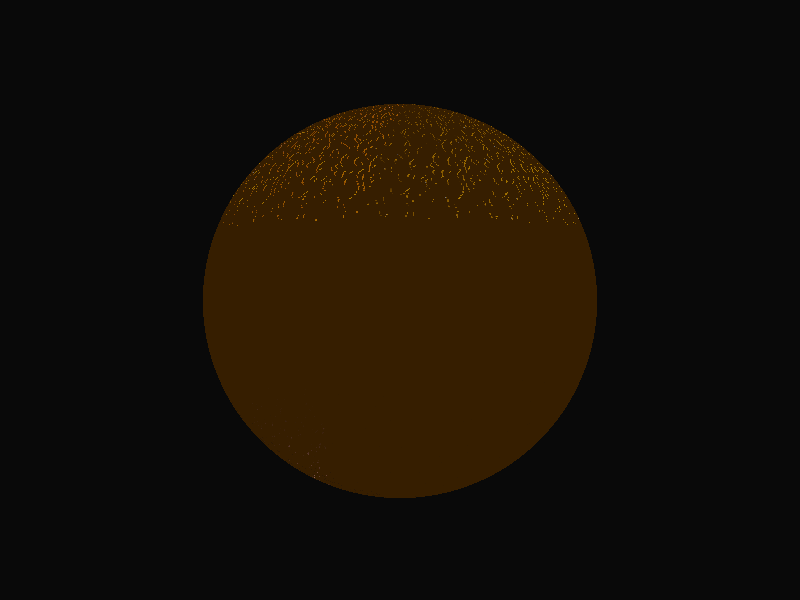
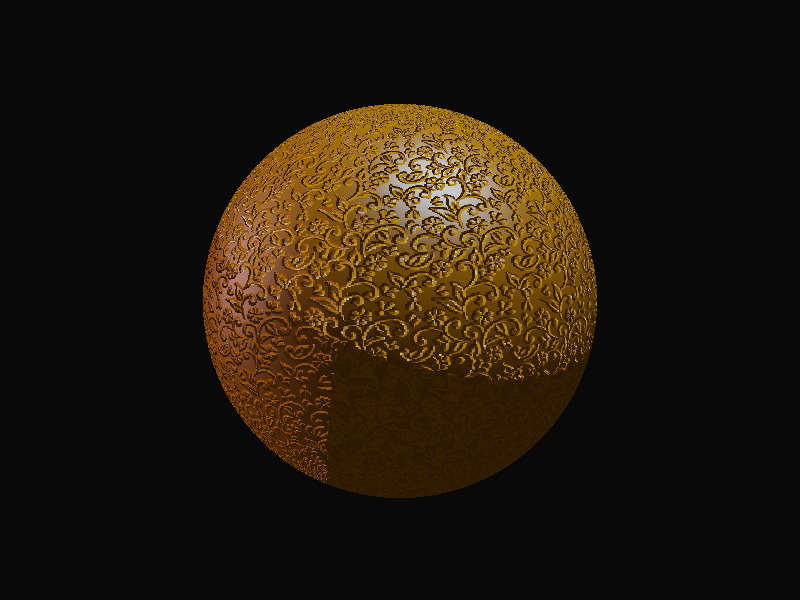
commit

Changed region(s): [[0.25, 0.15, 0.75, 0.81]]

diff --git a/src/uk/ac/cam/cl/gfxintro/ql316/tick1star/BumpySphere.java b/src/uk/ac/cam/cl/gfxintro/ql316/tick1star/BumpySphere.java
@@ -35,32 +35,28 @@ public class BumpySphere extends Sphere {
 	@Override
 	public Vector3 getNormalAt(Vector3 position) {
 
-		Vector3 OP = position.subtract(this.position);
-		double r = OP.magnitude();
+		Vector3 smoothNormal = position.subtract(this.position).normalised();
 
-		double theta = Math.acos(OP.y/OP.magnitude());
-		double phi = Math.atan(OP.z/ OP.x);
-		if(OP.z>0&&OP.x<0){ // second quadrant
+		double theta = Math.acos(smoothNormal.y);
+		double phi = Math.atan(smoothNormal.z/ smoothNormal.x);
+		if(smoothNormal.z>0&& smoothNormal.x<0){ // second quadrant
 			phi = Math.PI + phi;
 		}
-		if(OP.z<0&&OP.x<0){ // third quadrant
+		else if(smoothNormal.z<0&& smoothNormal.x<0){ // third quadrant
 			phi = Math.PI + phi;
 		}
-		if(OP.z<0&&OP.x>0){ // fourth quadrant
+		else if(smoothNormal.z<0&& smoothNormal.x>0){ // fourth quadrant
 			phi = 2*Math.PI + phi;
 		}
 
-		double u = phi*(bumpMapWidth-1)/(2*Math.PI);
-		double v = theta*(bumpMapHeight-1)/Math.PI;
+		int u = (int) Math.round(phi*(bumpMapWidth-1)/(2*Math.PI)) % bumpMapWidth;
+		int v = (int) Math.round(theta*(bumpMapHeight-1)/Math.PI) % bumpMapHeight;
 
-		Vector3 smoothNormal = OP.normalised();
-		Vector3 Pu = new Vector3(-r*Math.sin(theta)*Math.sin(phi), -r*Math.sin(theta), r*Math.sin(theta)*Math.cos(phi) ).normalised();
-		Vector3 Pv = smoothNormal.cross(Pu).normalised();
+		Vector3 Pu = new Vector3(-Math.cos(theta)*Math.sin(phi), -Math.sin(theta), Math.cos(theta)*Math.cos(phi) ).normalised();
+		Vector3 Pv = smoothNormal.cross(Pu);
 
-		if(u+1>bumpMapWidth-1){u=0;}
-		if(v+1>bumpMapHeight-1){v=0;}
-		double bu = heightMap[(int)Math.round(v)][(int)Math.round(u+1)]- heightMap[(int)Math.round(v)][(int)Math.round(u)];
-		double bv = heightMap[(int)Math.round(v+1)][(int)Math.round(u)]- heightMap[(int)Math.round(v)][(int)Math.round(u)];
+		double bu = heightMap[(v)][(u+1)]- heightMap[(v)][(u)];
+		double bv = heightMap[(v+1)][(u)]- heightMap[(v)][(u)];
 		Vector3 modifiedNormal = smoothNormal.add(Pu.scale(bu)).add(Pv.scale(bv)).normalised();
 		//TODO: return the normal modified by the bump map
 		return modifiedNormal;

diff --git a/src/uk/ac/cam/cl/gfxintro/ql316/tick1star/Sphere.java b/src/uk/ac/cam/cl/gfxintro/ql316/tick1star/Sphere.java
@@ -67,6 +67,11 @@ public class Sphere extends SceneObject {
 			return new RaycastHit();
 		}else{
 			double s;
+			if(s1<0){
+				s=s2;
+			}if(s2<0){
+				s=s1;
+			}
 			if(Math.abs(s1) < Math.abs(s2)){
 				s = s1;
 			}else{
